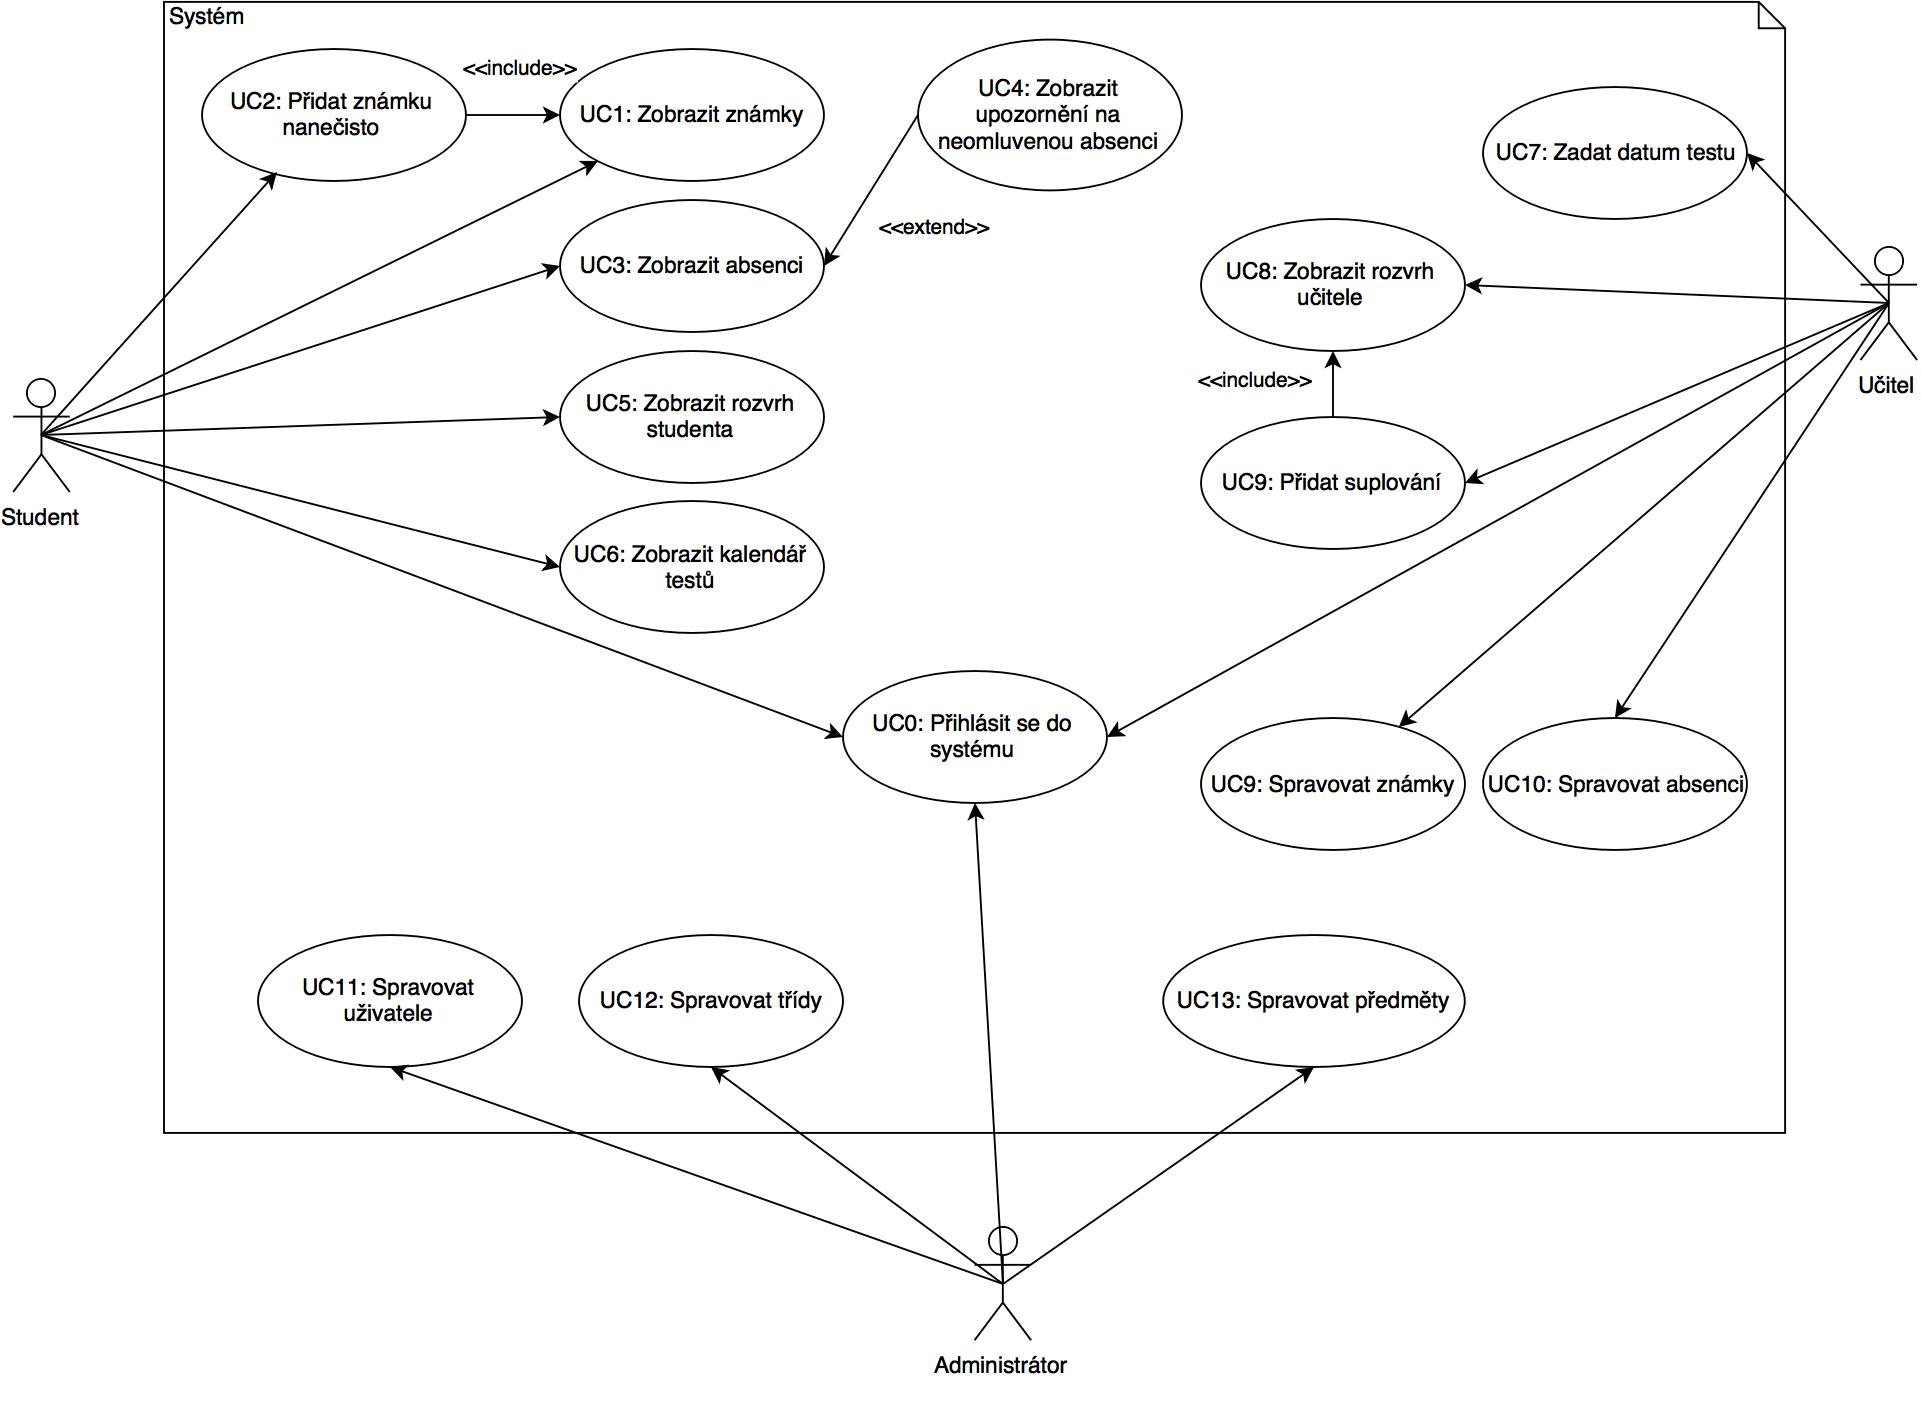
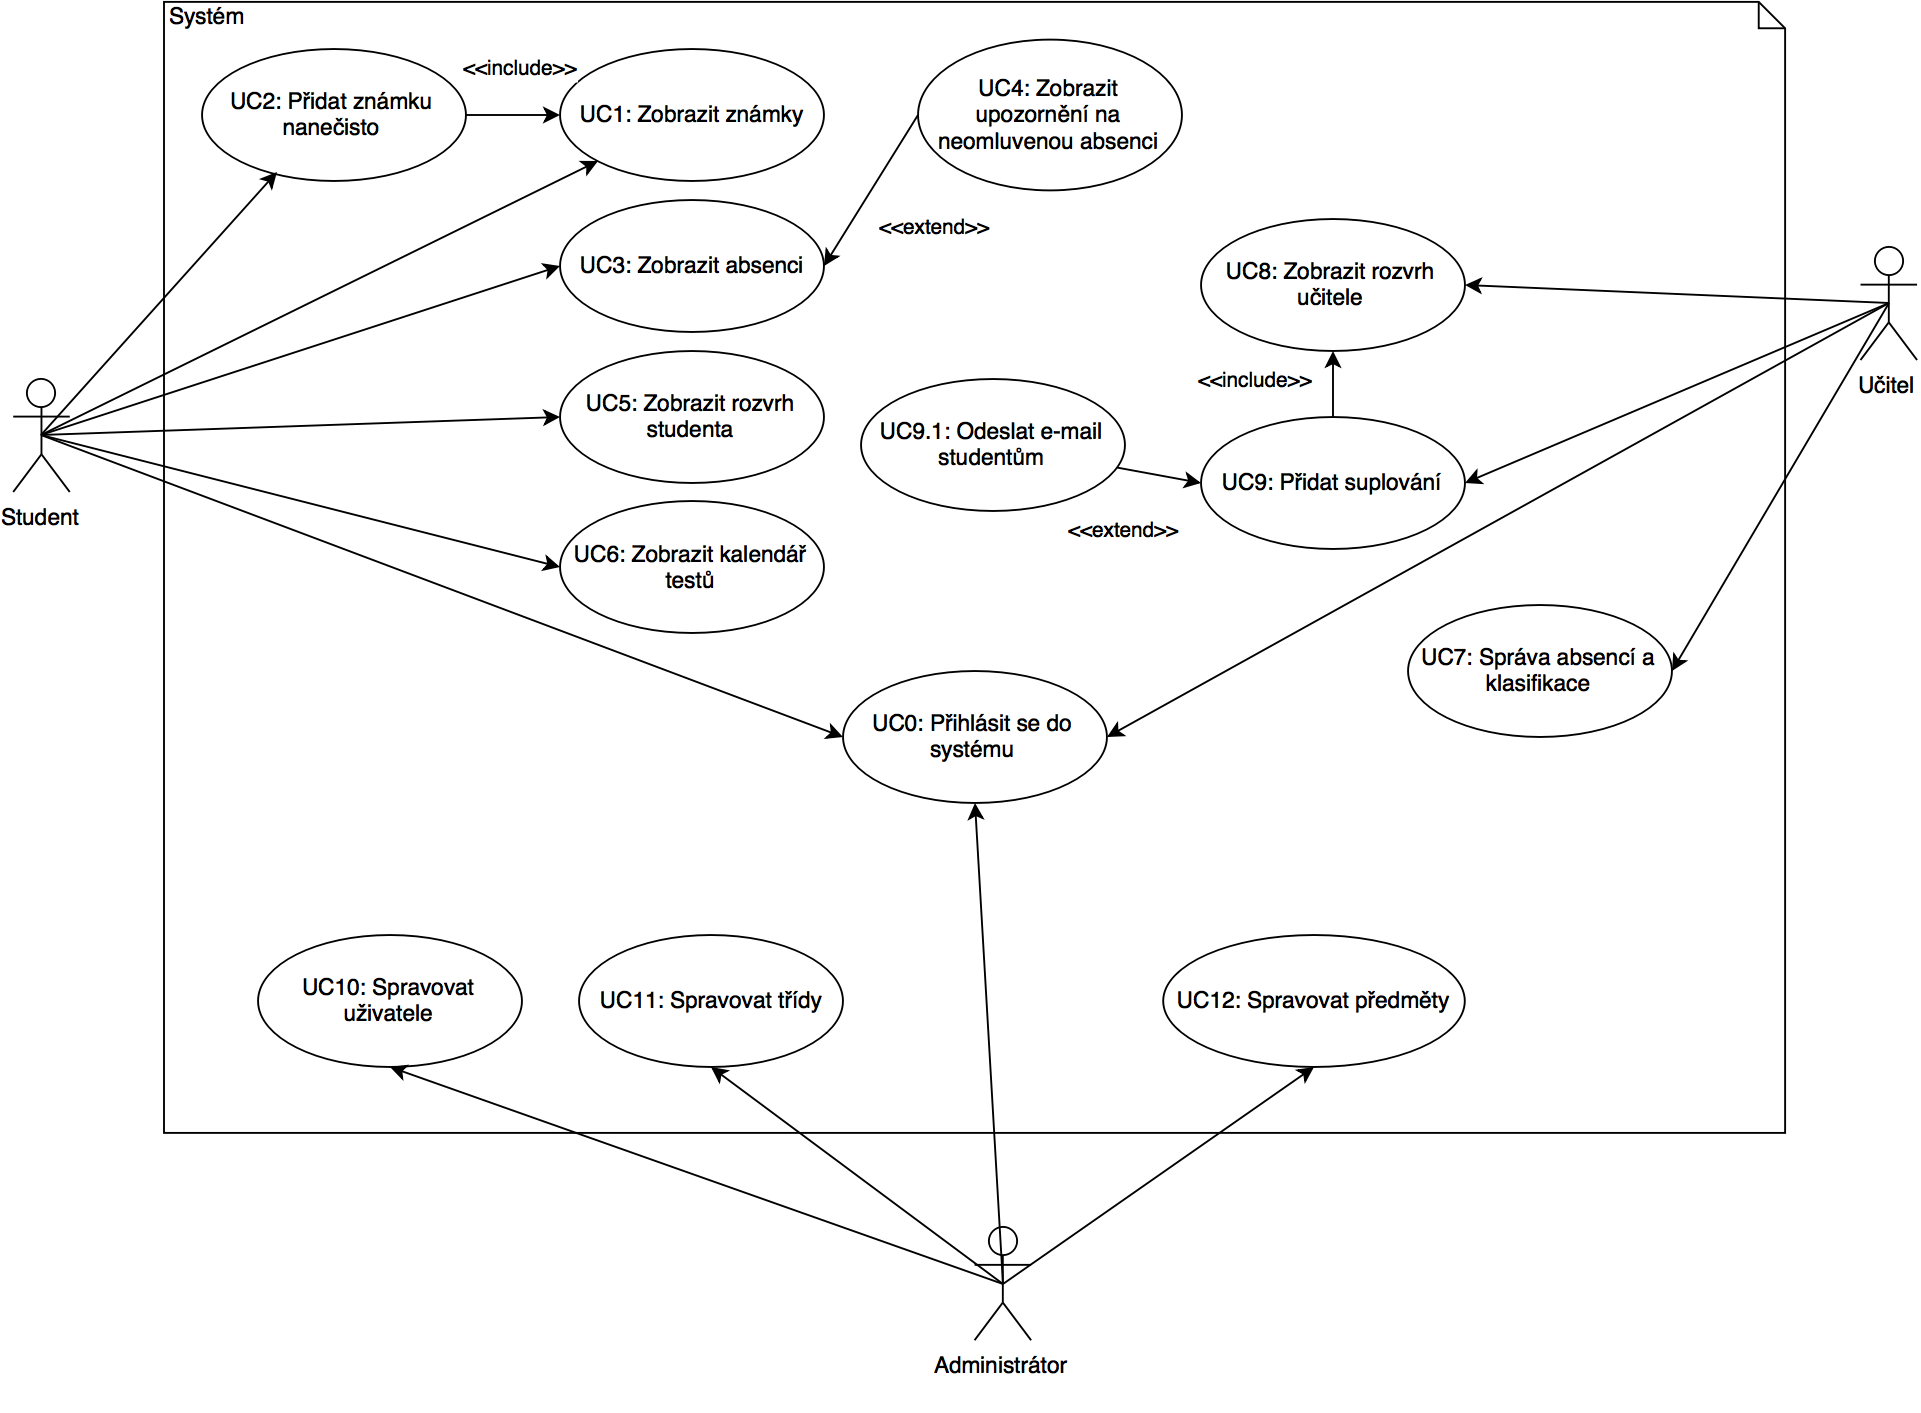
ENH: added two new use case diagrams, modified technical specification

diff --git a/Vize/Vize.tex b/Vize/Vize.tex
@@ -15,7 +15,7 @@
 \date{2015} %datum
 
 \begin{document}
-    \maketitle
+  \maketitle
 
 	\section{Vize}
 	Tento dokument popisuje informační systém pro střední školy, který bude sloužit k evidenci informací o studiu.
@@ -38,8 +38,23 @@
 	aktuálních informací o studiu, aplikace bude dostupná neustále.
 	
 	\section{Funkční specifikace}
-	\subsection{Use case diagram}
-		\includegraphics[width=\textwidth]{vis_use_case_diagram}
+	\subsection{Use case model}
+		\begin{figure}[h!]
+			\centering
+					\includegraphics[width=\textwidth]{vis_use_case_diagram}
+			\caption{Use case diagram (0. úroveň)}
+		\end{figure}
+		\begin{figure}[h!]
+			\centering
+					\includegraphics[width=\textwidth]{vis_use_case_diagram_7}
+			\caption{UC 7 (1. úroveň)}
+		\end{figure}
+		\begin{figure}[h!]
+			\centering
+					\includegraphics[width=\textwidth]{vis_use_case_diagram_12}
+			\caption{UC 12 (1. úroveň)}
+		\end{figure}
+		
 	\subsection{Případy použití}
 	\subsubsection*{UC0: Přihlásit se do systému}
 	\begin{description}
@@ -141,8 +156,10 @@
 					\item \begin{enumerate}[label*=\arabic*.,leftmargin=8pt]
 						\item
 							\begin{enumerate}[label=\alph*.]
-								\item Žádný jiný učitel v danou dobu není dostupný
-								\item Systém nastaví, že daná hodina odpadne a přejde k bodu 6
+								\item Žádný jiný učitel v danou dobu není dostupný nebo učitel zvolí, že chce nechat hodinu odpadnout
+								\item Systém nastaví, že daná hodina odpadne
+								\item Systém odešle e-mail studentům dané hodiny, že tato hodina odpadá
+								\item Scénář užití končí
 							\end{enumerate}
 					\end{enumerate}		
 				\end{enumerate}
@@ -155,11 +172,11 @@
 	\subsection{Konceptuální model domény}
 			\includegraphics[width=\textwidth]{vis_conceptual_domain_model}
 	\subsection{Technologie}
-		Systém bude vytvořen pomocí technologie .NET v jazyce C\#. Jako databáze bude použit Microsoft SQL Server, jelikož má dobrou
+		Systém bude vytvořen v jazyce C\# a frameworku .NET. Tato technologie byla vybrána, protože se jedná o moderní technologii, která je aktivně vyvíjena a podporována firmou Microsoft, obsahuje velkou spoustu zdarma dostupných knihoven, které značne urychlují vývoj programů, a aplikace je v ní možné vyvíjet pomocí vývojových prostředí dostupných zdarma. Jako databáze bude použit Microsoft SQL Server, jelikož má dobrou
 		kompatibilitu s platformou .NET. Systém nebude muset ukládat velké objemy dat, postačí tedy verze SQL Server Express, která je dostupná zdarma.
 		Z důvodu rozložení zátěže a většího zabezpečení bude systém rozdělen na dva počítače - databázový server, starající se o
 		úschovu dat, který nebude připojený k internetu, a aplikační server, který bude poskytovat rozhraní k systému přes internet a bude také obsahovat
-		samotnou aplikační logiku systému. K aplikačnímu serveru se budou klienti připojovat přes internet buď z webového prohlížeče, nebo z mobilního zařízení
+		samotnou aplikační logiku systému. K aplikačnímu serveru se budou klienti připojovat přes internet buď z webového prohlížeče nebo z mobilního zařízení
 		se systémem Android. Tento server bude komunikovat s databázovým serverem po místní síti. Veškerá komunikace se systémem bude probíhat po internetu, takže
 		aplikační server bude muset mít dostatečnou kapacitu připojení k internetu. K systému bude připojených naráz maximálně 50-100 uživatelů, velikost jedné
 		načtené stránky bude cca. 500 KiB. Při tomto počtu uživatelů můžeme počítat zhruba s dvěmi načteními stránky za vteřinu, kapacita internetové linky
@@ -167,22 +184,23 @@
 		\begin{enumerate}
 			\item Aplikační server
 				\begin{description}
-					\item[Popis:] \hfill \\Tento server bude obsahovat jeho aplikační logiku systému skrytou za webovou službou, ke které budou moci klienti přistupovat přes
+					\item[Popis:] \hfill \\Tento server bude obsahovat aplikační logiku systému skrytou za webovou službou, ke které budou moci klienti přistupovat přes
 						internet z mobilní aplikace. Dále bude obsahovat webový server, ke kterému budou uživatelé přistupovat pomocí prohlížeče.
 						Jelikož systém bude běžet pod prostředím .NET, operační systém tohoto serveru bude Microsoft Windows Server, pro zajištění maximální kompatibility
 						a jednoduchosti vývoje. Tento server bude kombinovat webový server i aplikační logiku, bude tedy potřebovat alespoň 8 GiB RAM paměti.
+						Protože server bude běžet neustále, bude ideální pro něj použít procesor Intel Xeon, který je navržen pro neustálý běh a nízkou energetickou spotřebu.
+						Na tomto serveru se nebudou uchovávat data systému, postačí pro něj tedy základní pevný disk o kapacitě 250 GiB.
 					\item[Operační systém:] Microsoft Windows Server 2012
 					\item[Software:] .NET framework ve verzi 4.5
-					\item[Hardware:] Intel i3-3250 (3.5 GHz), 8 GiB RAM, 250 GiB pevný disk
+					\item[Hardware:] Intel Xeon E3-1220 (3.1 GHz), 8 GiB RAM, WD Blue HDD 250 GiB
 				\end{description}
 			\item Databázový server
 			\begin{description}
 				\item[Popis:] \hfill \\Tento server bude obsahovat databázi informačního systému, ke které bude aplikační server přistupovat přes místní síť.
-						Tento server  bude mít dva pevné disky zapojené v módu RAID 1 (zrcadlení) pro možnost obnovení
-						dat při potenciální závadě disku.
+						Jelikož dat v databázi nebude hodně (viz odhad dat níže), postačí serveru 4 GiB operační paměti. Do operační paměti by se měla vlézt celá databáze, takže nebude potřeba použít SSD disky, které jsou sice rychlejší, ale dražší. Tento server tedy bude mít dva pevné disky, zapojené v módu RAID 1 (zrcadlení) pro možnost obnovení dat při potenciální závadě disku.  Stejně jako aplikační server bude běžet neustále, použije se pro něj tedy procesor Intel Xeon.
 				\item[Operační systém:] Microsoft Windows Server 2012
 				\item[Software:] .NET framework ve verzi 4.5, Microsoft SQL Server Express
-				\item[Hardware:] Intel i3-3250 (3.5 GHz), 4 GiB RAM, 2x 250 GiB pevný disk
+				\item[Hardware:] Intel Xeon E3-1220 (3.1 GHz), 4 GiB RAM, 2x WD RE Raid Edition HDD 250 GiB
 			\end{description}
 		\item Klient (prohlížeč)
 			\begin{description}
